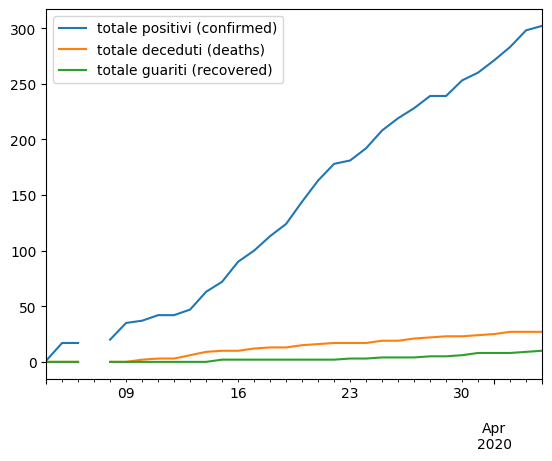
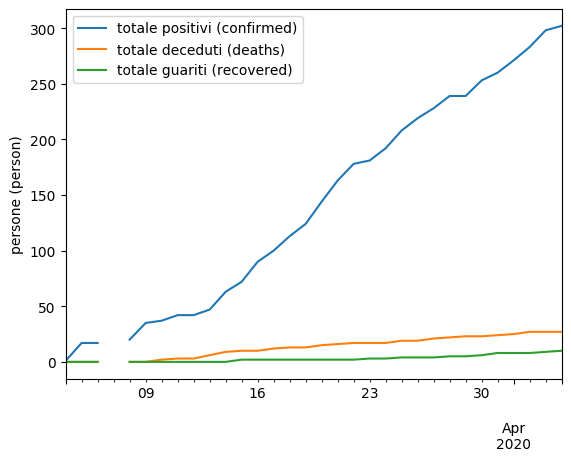
Add unit of measure in the vertical axis

diff --git a/COVID-19/analysis.py b/COVID-19/analysis.py
@@ -10,6 +10,7 @@ df.set_index('timestamp',inplace=True)
 fig, ax = plt.subplots(1)
 df.plot.bar(y='delta_positive_from_yesterday',ax=ax)
 ax.set_xlabel('')
+ax.set_ylabel('persone/giorno (person/day)')
 ax.legend(['nuovi positivi ogni giorno (new positive every day)'])
 ax.figure.savefig('COVID-19-daily_delta_positive.png',bbox_inches='tight')
 
@@ -23,6 +24,7 @@ fig, ax2 = plt.subplots(1)
 df2 = df[['positive','dead','total_recovered']]
 df2.plot(ax=ax2)
 ax2.set_xlabel('')
+ax2.set_ylabel('persone (person)')
 # translation according to https://github.com/pomber/covid19
 ax2.legend(['totale positivi (confirmed)','totale deceduti (deaths)','totale guariti (recovered)'])
 ax2.figure.savefig('COVID-19-cumulative.png',bbox_inches='tight')
@@ -44,6 +46,7 @@ df5=pd.DataFrame(cumulative_data,columns=df4.iloc[:,0])
 
 fig, ax5 = plt.subplots(1)
 df5.boxplot(ax=ax5,rot=90,grid=False)
+ax5.set_ylabel('persone/giorno (person/day)')
 ax5.set_title('Boxplot per i nuovi positivi ogni giorno\n(boxplots for new positive every day)')
 ax5.figure.savefig('COVID-19-daily_positive_boxplot.png',bbox_inches='tight')
 
